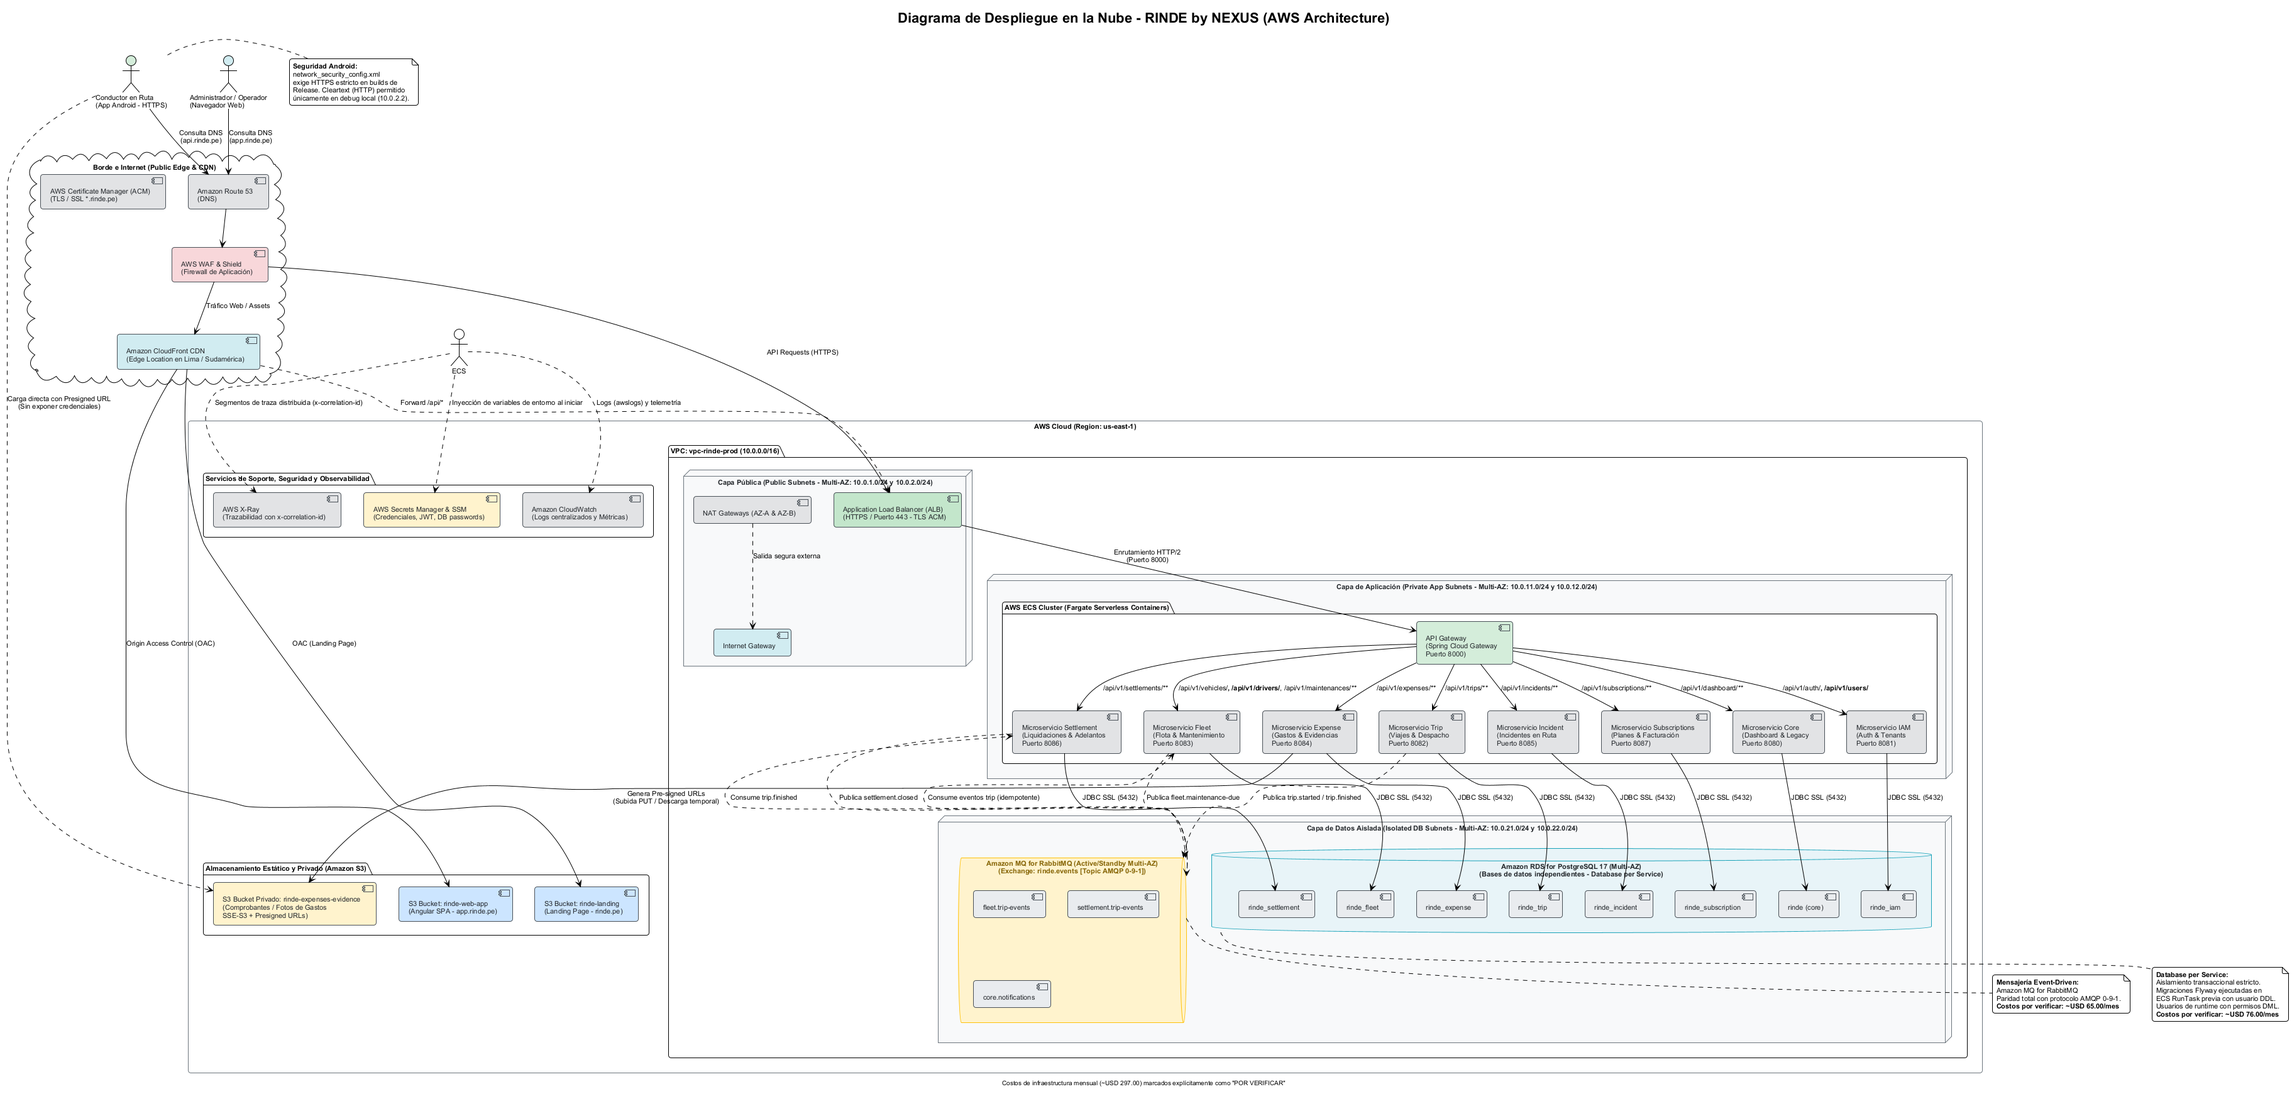
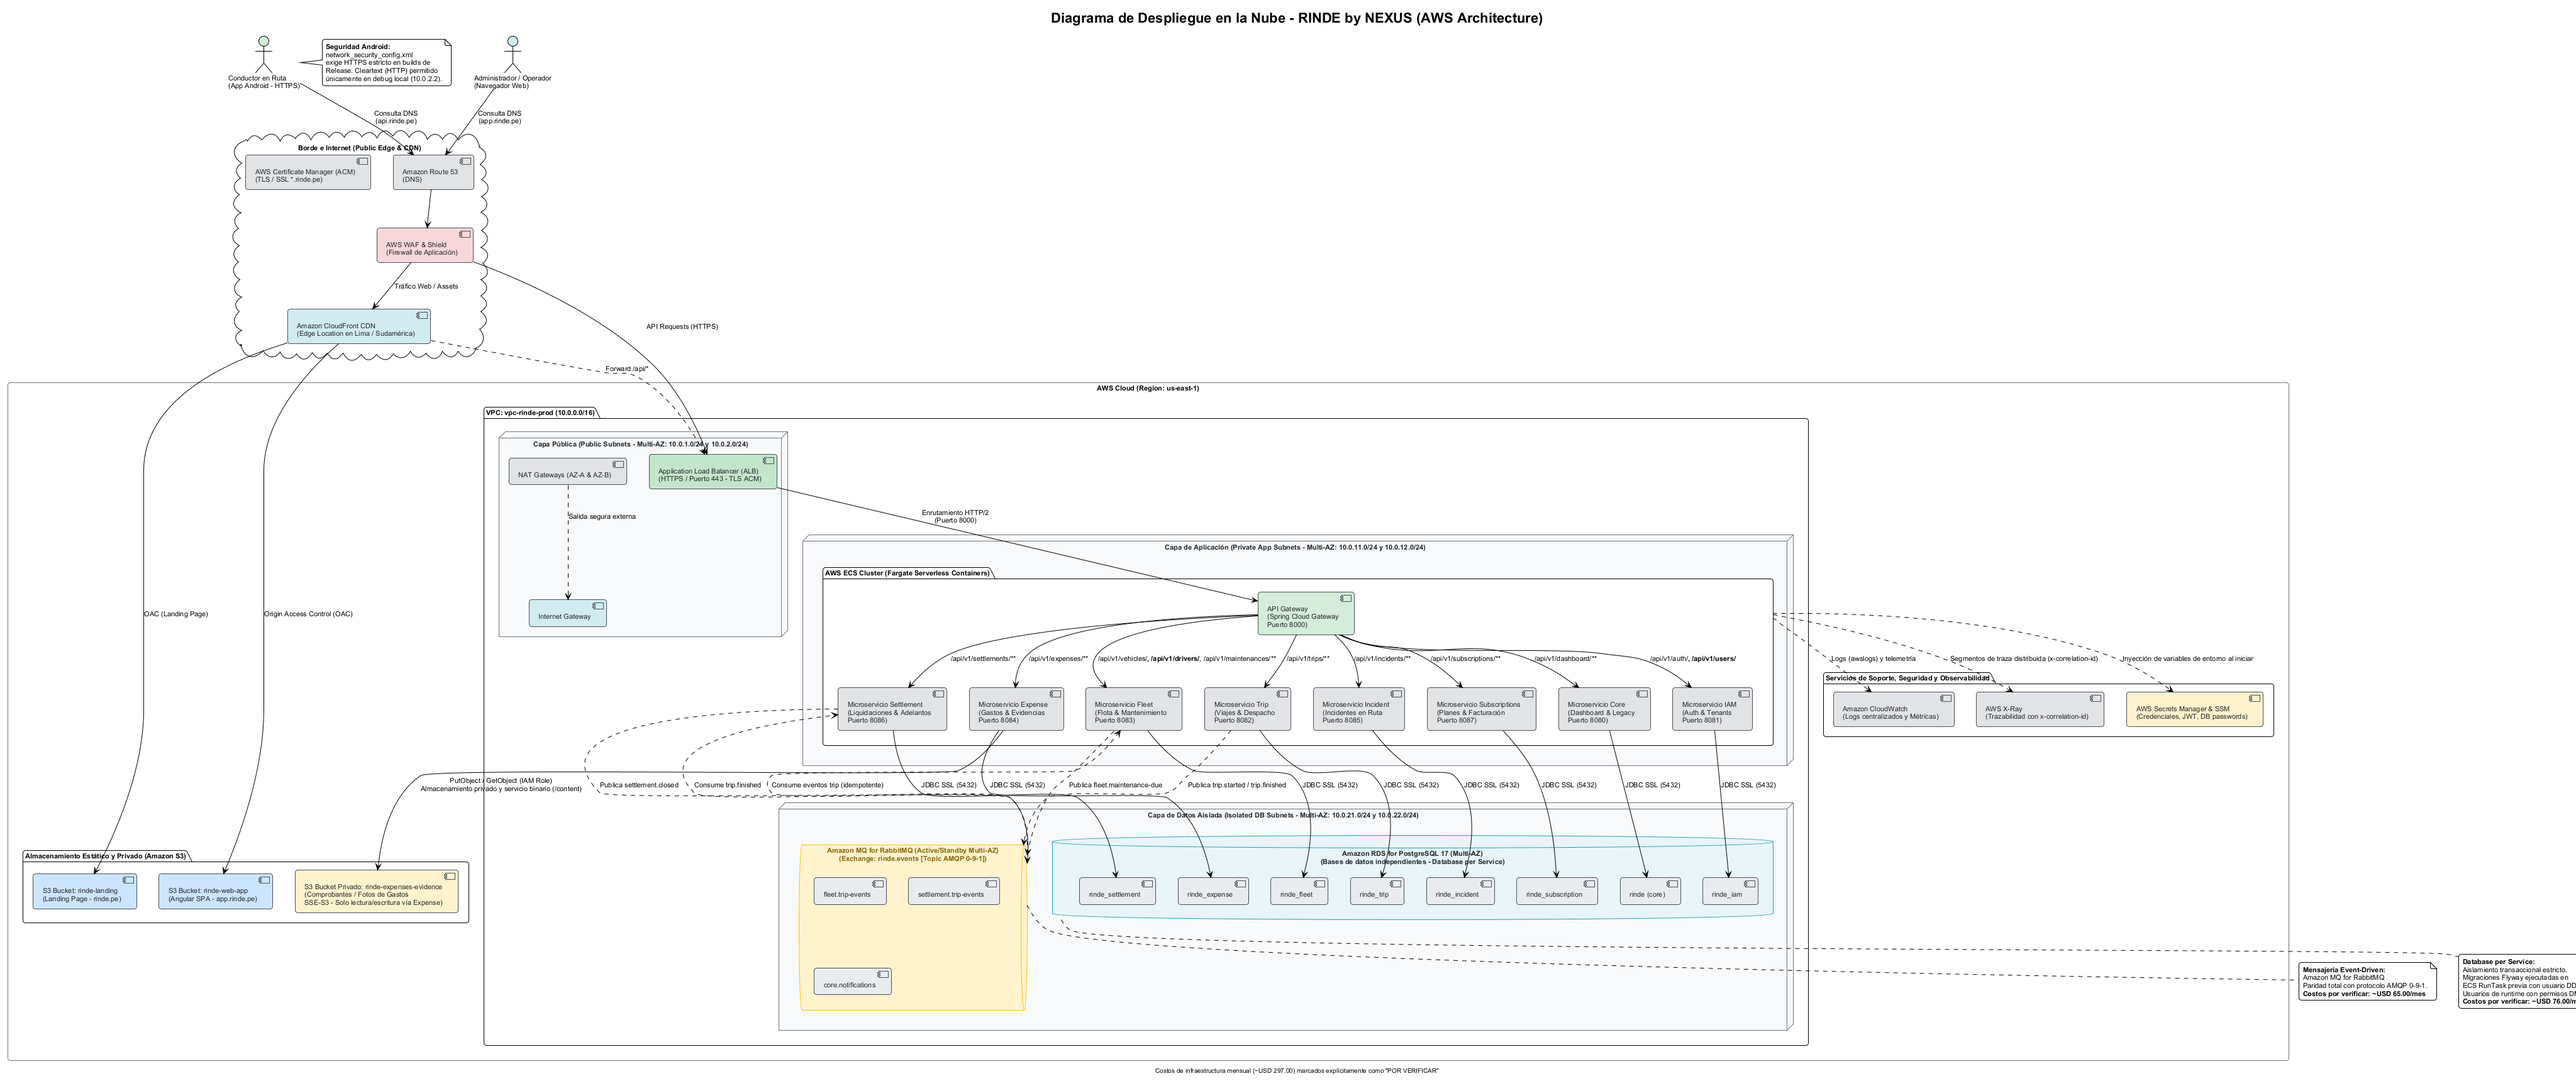
docs(cloud): remove duplicate document and route S3 evidence via expense

diff --git a/docs/sprint3/Diseno_Cloud.md b/docs/sprint3/Diseno_Cloud.md
@@ -16,7 +16,7 @@ A partir de la evolución modular experimentada entre los Sprints 1, 2 y 3, el s
 1. **Desacoplamiento Operativo y Aislamiento de Datos (Database-per-Service):** Cada microservicio posee persistencia exclusiva sin compartición de esquemas ni consultas transaccionales cruzadas.
 2. **Computación Serverless en Contenedores:** Eliminación de la administración manual de servidores mediante contenedores efímeros y autoescalables.
 3. **Comunicación Asíncrona Confiable:** Mensajería guiada por eventos mediante RabbitMQ para garantizar consistencia eventual e idempotencia.
-4. **Seguridad Integral (Zero Trust & Defense in Depth):** Cifrado en tránsito y en reposo, aislamiento en redes privadas virtuales (VPC), almacenamiento privado de evidencias con URLs prefirmadas (Pre-signed URLs), y estricta separación de permisos de red y base de datos.
+4. **Seguridad Integral (Zero Trust & Defense in Depth):** Cifrado en tránsito y en reposo, aislamiento en redes privadas virtuales (VPC), almacenamiento privado de evidencias en Amazon S3 accesible únicamente por el microservicio Expense tras validar token JWT, empresa y rol, y estricta separación de permisos de red y base de datos.
 5. **Observabilidad Distribuida:** Centralización de métricas, registros y trazabilidad de extremo a extremo propagando el identificador `x-correlation-id`.
 
 ---
@@ -30,7 +30,7 @@ Para determinar el proveedor idóneo, se evaluaron exhaustivamente las tres plat
 | **Cómputo en Contenedores (Serverless)** | **AWS ECS con Fargate:**<br>Orquestación ligera sin gestionar instancias EC2. Compatible nativamente con imágenes Docker estándar Temurin 21. Asignación granular de roles IAM por tarea (Task Role). Escalado ágil por métricas de CPU/RAM. | **Azure Container Apps (ACA):**<br>Basado en Kubernetes (KEDA). Excelente integración con microservicios y escalado a cero, aunque mayor complejidad en configuración de redes virtuales dedicadas y depuración. | **Google Cloud Run:**<br>Altamente optimizado para contenedores sin estado con peticiones HTTP entrantes. Limitaciones en tareas de fondo continuas (workers de RabbitMQ y scheduled jobs como `MaintenanceDueJob`). |
 | **Persistencia Relacional (PostgreSQL)** | **Amazon RDS for PostgreSQL 17:**<br>Soporte maduro, automatización de copias de seguridad continuas, réplicas de lectura, failover Multi-AZ transparente y compatibilidad total con extensiones y Flyway. | **Azure Database for PostgreSQL (Flexible Server):**<br>Excelente soporte y alta disponibilidad de zona redundante, pero costos base de cómputo y almacenamiento ligeramente superiores en niveles pequeños. | **Cloud SQL for PostgreSQL:**<br>Administración robusta y mantenimiento automatizado, aunque los tiempos de conmutación por error (failover) suelen ser mayores frente a RDS Multi-AZ. |
 | **Broker de Mensajería (RabbitMQ)** | **Amazon MQ for RabbitMQ:**<br>Servicio totalmente administrado con compatibilidad nativa 100% AMQP 0-9-1. Soporta configuración de clúster activo/standby Multi-AZ. Sin cambios de código en Spring AMQP. | **No administrado nativamente:**<br>Azure ofrece Service Bus (protocolo AMQP 1.0 / proprietary), requiriendo adaptar todo el código a JMS/Azure SDK, o bien contratar un servicio de terceros (CloudAMQP). | **No administrado nativamente:**<br>GCP promueve Cloud Pub/Sub, lo que exigiría reemplazar RabbitMQ y reescribir la capa de infraestructura de mensajería de todos los microservicios. |
-| **Almacenamiento de Evidencias y Privacidad** | **Amazon S3:**<br>Estándar industrial de almacenamiento de objetos. Cifrado SSE-S3 / SSE-KMS, ciclo de vida de objetos, bloqueo de acceso público y generación de Pre-signed URLs nativas y de bajo costo. | **Azure Blob Storage:**<br>Almacenamiento seguro y soporte para SAS (Shared Access Signatures). Curva de integración con Spring Cloud algo más compleja que el SDK estándar de S3. | **Google Cloud Storage (GCS):**<br>Excelente rendimiento y URLs firmadas muy ágiles, similar a S3 en costo y fiabilidad. |
+| **Almacenamiento de Evidencias y Privacidad** | **Amazon S3:**<br>Estándar industrial de almacenamiento privado de objetos. Cifrado SSE-S3 / SSE-KMS, bloqueo total de acceso público e integración directa mediante AWS SDK v2 con roles IAM de ECS, permitiendo que el microservicio `expense` guarde y sirva los archivos directamente sin exponer el bucket. | **Azure Blob Storage:**<br>Almacenamiento privado administrado mediante SDK de Azure y Managed Identities, aunque con mayor acoplamiento de configuración en contenedores Spring Boot frente al estándar S3. | **Google Cloud Storage (GCS):**<br>Buen rendimiento y acceso privado por IAM/SDK, aunque en ecosistemas Java multi-nube el API compatible con S3 es el estándar más extendido. |
 | **Distribución de Frontend y Landing Page** | **Amazon CloudFront + S3:**<br>CDN global con presencia en Lima (Edge Location), compresión Brotli/Gzip, certificados SSL gratuitos vía ACM y reescritura de rutas para Angular SPA. | **Azure Static Web Apps / Front Door:**<br>Muy buena integración de CI/CD para frontend, pero costos de Front Door significativamente más altos para proyectos medianos. | **Firebase Hosting / Cloud CDN:**<br>Despliegue muy rápido y caché global, aunque la administración centralizada con VPC es más segmentada. |
 | **Gestión de Secretos y Configuración** | **AWS Secrets Manager & SSM Parameter Store:**<br>Rotación automática de credenciales de base de datos, inyección transparente como variables de entorno a nivel de ECS Task Definition. | **Azure Key Vault:**<br>Altamente seguro y con RBAC granular, aunque requiere configuración adicional de identidades administradas en contenedores. | **Secret Manager:**<br>Simple y eficaz, integrado con Cloud IAM, costo por millón de operaciones. |
 | **Observabilidad y Trazabilidad** | **CloudWatch Logs/Metrics + AWS X-Ray:**<br>Recolección nativa mediante driver `awslogs` en Fargate. Trazabilidad distribuida de microservicios con correlación por `x-correlation-id`. | **Azure Monitor & Application Insights:**<br>Muy potente para telemetría, pero la instrumentación Java suele requerir agentes dedicados más pesados. | **Cloud Logging & Cloud Trace:**<br>Visualización limpia y rápida, pero menos integrada con arquitecturas híbridas RabbitMQ. |
@@ -51,7 +51,7 @@ Tras el análisis comparativo, se selecciona formalmente **Amazon Web Services (
    CloudFront posee un Punto de Presencia (PoP / Edge Location) en Lima, Perú, lo cual permite entregar el frontend de la web y la landing page con tiempos de carga inferiores a 80 ms para operadores logísticos locales.
 
 4. **Compatibilidad Estándar con el Ecosistema Spring Boot 3 y Angular 22:**  
-   Las librerías del AWS SDK v2 para Java se integran orgánicamente con Spring Boot para la generación de URLs prefirmadas en S3, la inyección de secretos desde Secrets Manager y la trazabilidad con AWS X-Ray.
+   Las librerías del AWS SDK v2 para Java se integran orgánicamente con Spring Boot para persistir y recuperar los comprobantes en Amazon S3 directamente desde el microservicio `expense` mediante IAM Roles (sirviéndolos a través de su endpoint autenticado), la inyección de secretos desde Secrets Manager y la trazabilidad con AWS X-Ray.
 
 ---
 
@@ -159,23 +159,22 @@ En estricta correspondencia con el patrón **Database-per-Service**, se utiliza 
 
 ---
 
-### 4.5. Almacenamiento Seguro de Evidencias (Amazon S3)
-En el entorno local, `services/expense` persiste las fotos de comprobantes en el volumen `expense-evidence-data`. En la nube, este volumen efímero se sustituye por **Amazon S3**:
+### 4.5. Almacenamiento Privado de Evidencias (Amazon S3)
+En el entorno local, `services/expense` persiste los archivos de comprobantes en el volumen `expense-evidence-data`. En la nube, este volumen local se sustituye por **Amazon S3**, funcionando exclusivamente como almacenamiento privado administrado internamente por el microservicio `expense`:
 
 1. **Configuración del Bucket Privado:**
    - Nombre: `s3-rinde-expenses-evidence-prod`.
-   - **Block Public Access:** Activado en sus 4 niveles (sin acceso público bajo ninguna circunstancia).
-   - Cifrado por defecto: SSE-S3 (Server-Side Encryption con llaves AES-256 administradas).
-2. **Flujo de Carga y Descarga mediante Pre-signed URLs:**
-   - **Subida de Evidencia (`POST /api/v1/expenses/{id}/evidences`):**
-     1. El cliente móvil o web envía el archivo multipart al microservicio `expense` con su token Bearer.
-     2. El microservicio valida los permisos del usuario y el estado del gasto (`REGISTERED` o `PENDING_SUPPORT`).
-     3. El microservicio genera un Object Key único con formato: `tenants/{tenantId}/expenses/{expenseId}/{uuid}.webp`.
-     4. `expense` transfiere el archivo de forma segura a S3 usando el SDK de AWS autenticado con su rol IAM, o emite una Pre-signed URL de subida (`PUT`) con caducidad de 10 minutos.
-   - **Lectura Segura (`GET /api/v1/expenses/{id}/evidences/{evidenceId}/content`):**
-     1. El revisor (auditor) solicita la evidencia.
-     2. `expense` valida que el usuario pertenezca al `tenantId` correspondiente.
-     3. El microservicio genera una **Pre-signed URL** temporal con vigencia de 5 minutos y responde un código de redirección temporal `307 Temporary Redirect` hacia S3, garantizando que el bucket permanezca 100% privado.
+   - **Block Public Access:** Activado en sus 4 niveles (sin acceso público bajo ninguna circunstancia ni URLs directas hacia el cliente).
+   - **Cifrado y Control de Acceso IAM:** Cifrado por defecto SSE-S3 (AES-256) y política de acceso restringida exclusivamente al **ECS Task Role** del microservicio `expense` (`s3:PutObject`, `s3:GetObject`, `s3:DeleteObject`) a través de un VPC Gateway Endpoint para S3.
+2. **Flujo de Carga y Lectura Autenticada a través de `expense`:**
+   - **Subida de Evidencia (`POST /api/v1/expenses/{expenseId}/evidences`):**
+     1. El cliente móvil del conductor envía el archivo (`multipart/form-data`, campo `file`; JPEG, PNG, WEBP o PDF, hasta 5 MB según `RINDE_EVIDENCE_MAX_SIZE_BYTES`) a través del Gateway con su token Bearer (`DRIVER`).
+     2. El microservicio `expense` valida el JWT, comprueba empresa (`tenantId`) y propiedad del gasto, verifica formato y tamaño, y calcula la huella **SHA-256** de integridad.
+     3. `expense` almacena el objeto de forma privada en Amazon S3 bajo la clave `tenants/{tenantId}/expenses/{expenseId}/{evidenceId}` usando el AWS SDK v2 y su IAM Role, transiciona el gasto a `REGISTERED` y responde `201 Created` devolviendo el enlace relativo `contentUrl` (`/api/v1/expenses/{expenseId}/evidences/{evidenceId}/content`).
+   - **Lectura Segura (`GET /api/v1/expenses/{expenseId}/evidences/{evidenceId}/content`):**
+     1. El administrador (`ADMINISTRATOR`), responsable de operaciones (`OPERATIONS_MANAGER`) o conductor dueño del gasto (`DRIVER`) solicita la evidencia enviando la cabecera `Authorization: Bearer <jwt>` (en la web se solicita como `blob` con cabecera `Accept: */*` o `image/*`).
+     2. El microservicio `expense` valida el JWT, la pertenencia a la empresa (`tenantId`) y el rol o propiedad sobre el gasto.
+     3. `expense` recupera el objeto internamente desde S3, verifica la huella SHA-256 almacenada y entrega el flujo binario directamente en la respuesta HTTP con su `Content-Type`, `Content-Disposition: inline; filename="..."` y `Cache-Control: no-store`. De este modo la lectura sigue pasando íntegramente por `expense`, sin redirecciones 307 ni URLs prefirmadas expuestas al cliente.
 
 ---
 
@@ -306,6 +305,6 @@ El APK del conductor (`apps/mobile`), compilado bajo el módulo Android, cuenta 
 1. **Viabilidad Técnica y Operativa:**  
    La arquitectura diseñada sobre AWS garantiza una transición transparente desde el entorno Docker Compose local hacia un esquema de producción resiliente, preservando intactos los contratos HTTP del API Gateway y la topología de eventos RabbitMQ.
 2. **Cumplimiento de Seguridad y Normativa:**  
-   El uso de Pre-signed URLs en S3 y la obligatoriedad de HTTPS para el APK de Android aseguran el cumplimiento riguroso de la confidencialidad de comprobantes contables y datos operativos de transporte.
+   El almacenamiento privado en S3 mediado exclusivamente por el microservicio `expense` (mediante `GET /api/v1/expenses/{expenseId}/evidences/{evidenceId}/content` con validación de JWT, empresa y rol) y la obligatoriedad de HTTPS para el APK de Android aseguran el cumplimiento riguroso de la confidencialidad de comprobantes contables y datos operativos de transporte.
 3. **Control Presupuestario:**  
    El costo estimado mensual de **USD 297,00 (por verificar)** resulta altamente competitivo y sustentable para una flota inicial en fase de piloto comercial, con posibilidad de optimización mediante Savings Plans o instancias reservadas.
